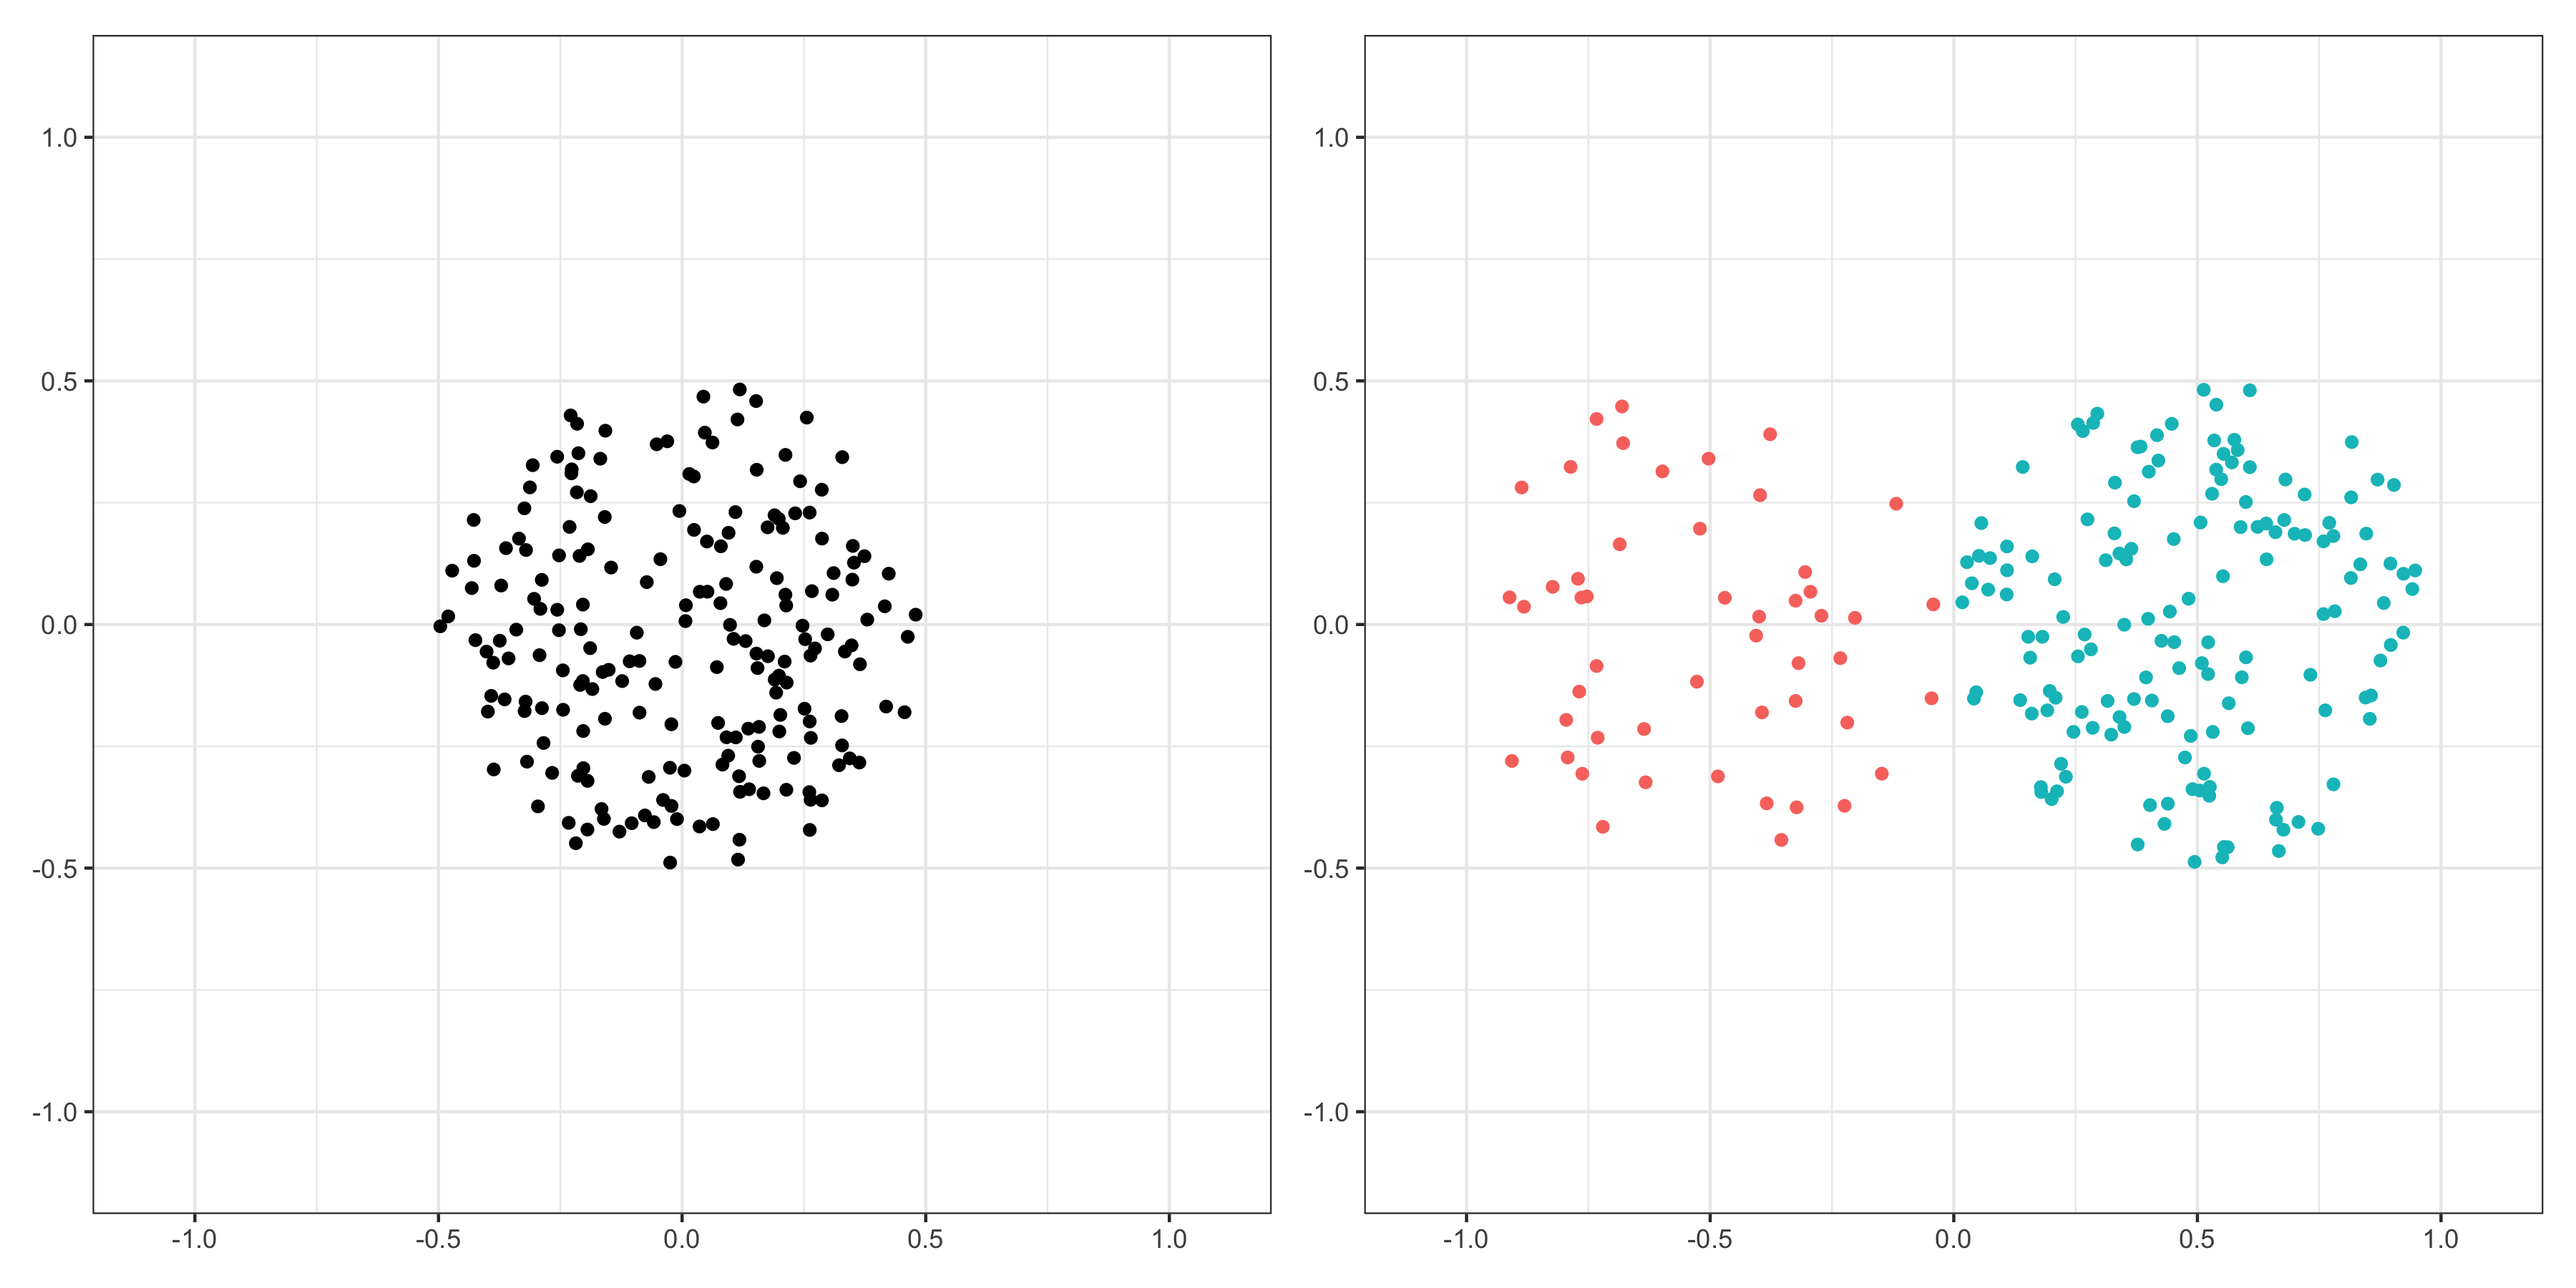
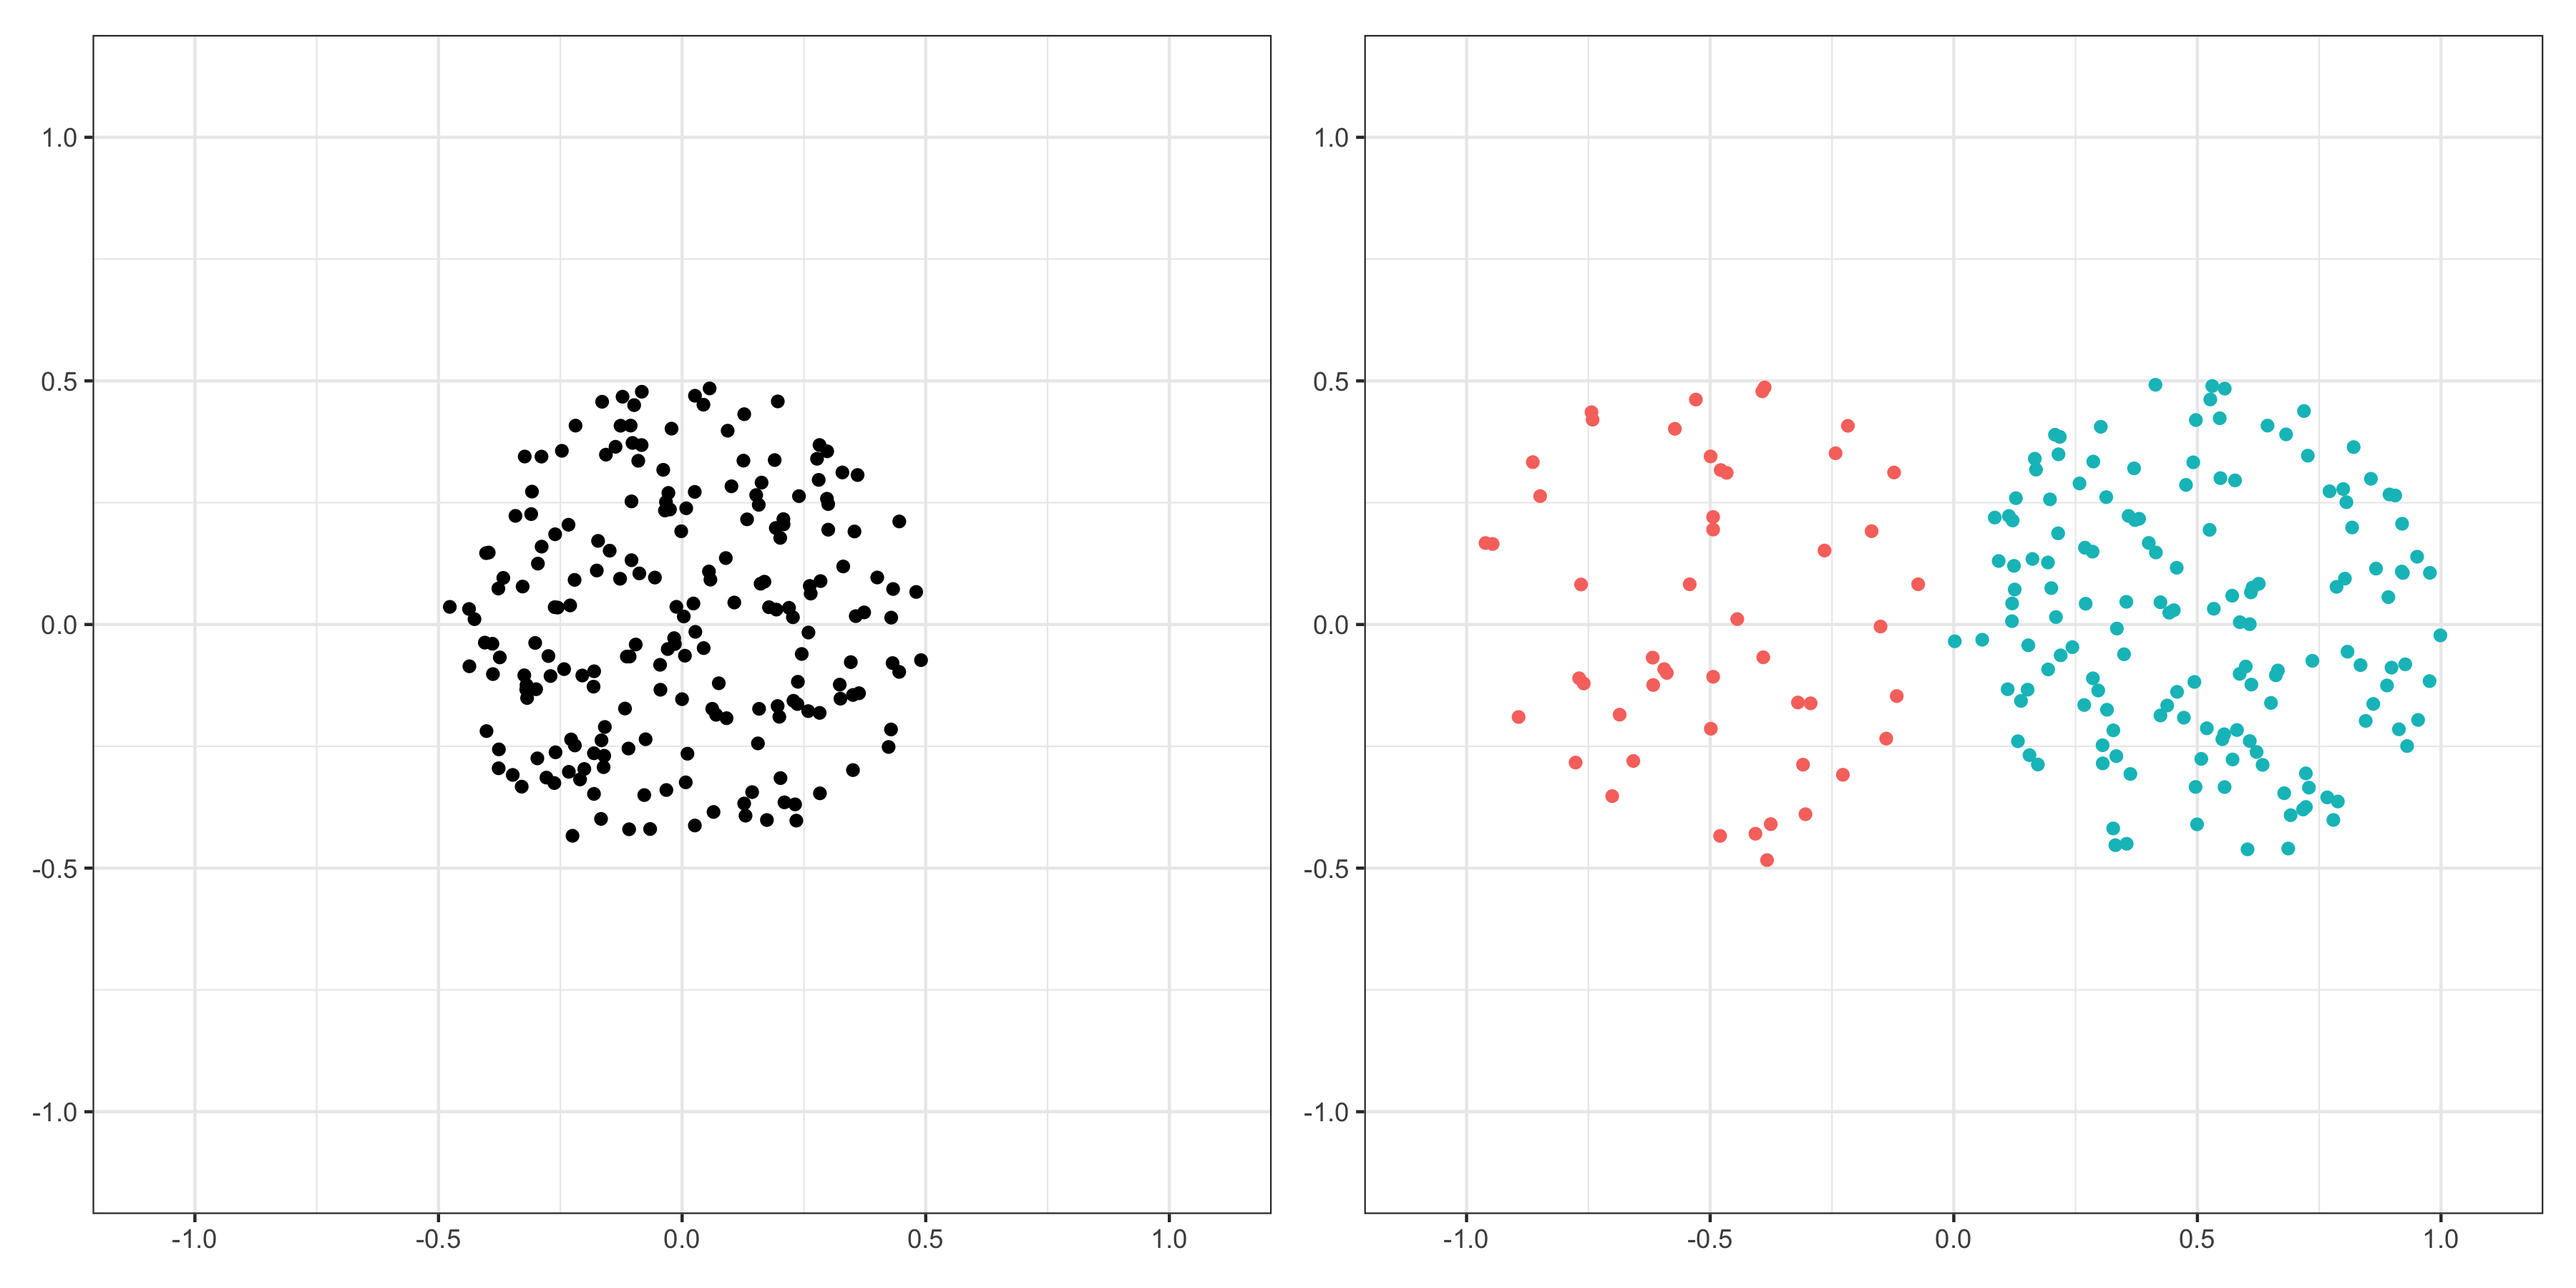
README up! Also, documentation edits; bug fixes

diff --git a/README.md b/README.md
@@ -47,6 +47,7 @@ library(dplyr)
 library(ggplot2)
 library(patchwork)
 library(vayr)
+library(estimatr)
 
 dat <- data.frame(
   X = c(rep(0, 200)),
@@ -225,7 +226,7 @@ plot + dodged_plot
 <img src="man/figures/README-contents_3A-1.png" width="100%" />
 
 Like **position_sunflower()**, **position_circlepack()** creates
-meta-points from the inside out in the order of the data. Thus, the
+meta-points from the inside out in the order of the data. Thus,
 arranging the data by size will organize the meta-points accordingly.
 
 ``` r
@@ -258,5 +259,34 @@ functions from ‘vayr’ so as to demonstrate the package’s functionality
 with a real-world example. \[VISUALIZE ME\].
 
 ``` r
-## [EXAMPLE CODE]
+summary_data <- patriot_act |> 
+  group_by(T1_content, pid_3, sample_label) |> 
+  reframe(tidy(lm_robust(PA_support~1)))
+
+label_df <- summary_data |> 
+  filter(sample_label == "Original Study", T1_content == "Control") |> 
+  mutate(PA_support = case_when(pid_3 == "Democrat"~conf.low - 0.15, 
+                                pid_3 == "Republican"~conf.high + 0.15))
+
+ggplot(patriot_act, aes(T1_content, PA_support, color = pid_3, group = pid_3)) +
+  geom_point(size = 0.1, alpha = 0.7,
+             position = position_sunflowerdodge(width = 0.5, density = 10)) +
+  geom_line(data = summary_data, aes(x = T1_content, y = estimate),  
+            linewidth = 0.5, position = position_dodge(width = 0.5)) +  
+  geom_point(data = summary_data, aes(x = T1_content, y = estimate),  
+             size = 3, position = position_dodge(width = 0.5)) +
+  geom_linerange(data = summary_data, aes(x = T1_content, ymin = conf.low, ymax = conf.high, y = estimate),
+                 position = position_dodge(width = 0.5)) +
+  geom_text(data = label_df, aes(label = pid_3)) +
+  scale_color_manual(values = c("blue4", "red3")) +
+  scale_y_continuous(breaks = 1:7) +
+  coord_equal() +
+  facet_wrap(~sample_label) +
+  theme_bw() +
+  theme(legend.position = "none",
+        strip.background = element_blank(),
+        panel.grid.minor = element_blank()) +
+  labs(y = "Do you oppose or support the Patriot Act?\n[1: Oppose very strongly, 7: Support very strongly]", x = "Randomly assigned information")
 ```
+
+<img src="man/figures/README-patriot_act_visualization-1.png" width="100%" />
